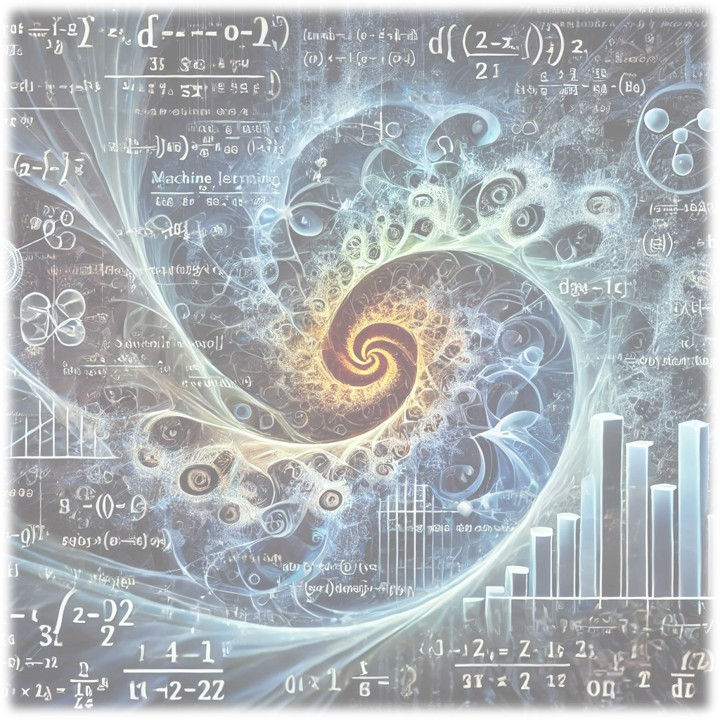
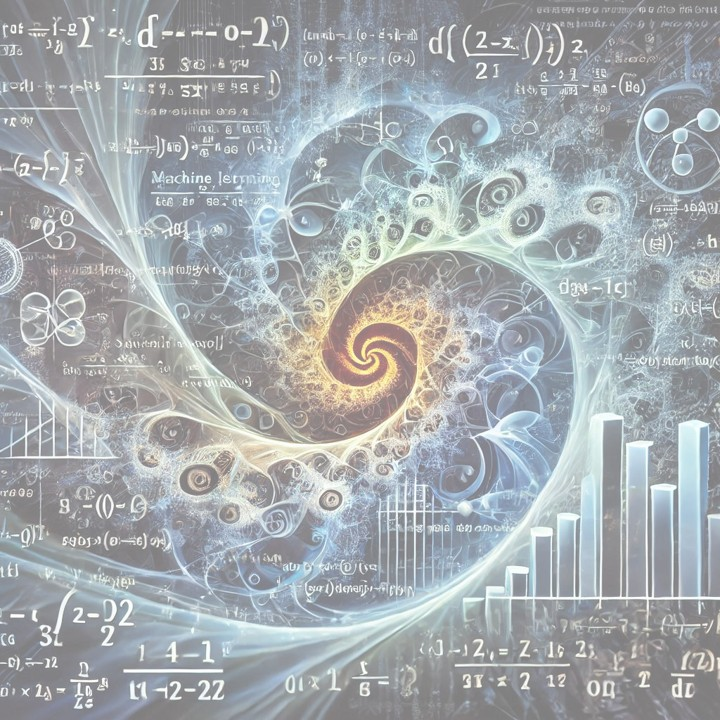
corregidos las salidas de margen

Changed region(s): [[0.0, 0.0, 1.0, 1.0]]

diff --git a/academico.html b/academico.html
@@ -718,7 +718,7 @@
                                         Método Axiomático y Medidas de Pobreza: Una Revisión. </i>. Revista de
                                     Matemática de la Universidad del Atlántico. IV(1), 1-15.
                                     <a href="http://investigaciones.uniatlantico.edu.co/revistas/index.php/MATUA/article/view/1756"
-                                        target="_blank">http://investigaciones.uniatlantico.edu.co/revistas/index.php/MATUA/article/view/1756
+                                        target="_blank">link
                                     </a>
                                 </li>
                                 <li><strong>González De Gouveia R, Monsalve-Cobis A, (2017), </strong>. <i>
@@ -752,7 +752,7 @@
                                     Analysis,
                                     55. Pags 3073–3092. Elsevier Science Bv ISSN: 0167-9473
                                     <a href="https://doi.org/10.1016/j.csda.2011.06.004" target="_blank">
-                                        https://doi.org/10.1016/j.csda.2011.06.004</a>
+                                        DOI</a>
                                 </li>
                                 <li><strong>David Márquez, Juan R. Jiménez and Abelardo Monsalve (2001)</strong>.
                                     <i>
@@ -760,7 +760,7 @@
                                     2001
                                     SEG Annual Meeting, San Antonio, Texas, Paper Number: SEG-2001-0580.
                                     <a href="https://doi.org/10.1190/1.1816684" target="_blank">
-                                        https://doi.org/10.1190/1.1816684</a>
+                                        DOI</a>
                                 </li>
                             </ul>
                         </div>

diff --git a/styles/styles.css b/styles/styles.css
@@ -50,10 +50,10 @@ footer {
 
 body {
     /* background-image: url(../images/Designer4.jpeg); */
-    background-image: url(../img/Designer3marcadeagua.jpg);
+    background-image: url(../img/Fondo_2_marca_agua.png.jpg);
     background-attachment: fixed;
     background-size: cover;
-    background-position: center;
+    /* background-position: center; */
     /* background-repeat: no-repeat; */
     /* background: linear-gradient(135deg, #8e909b, #004e92); */
     color: rgb(116, 146, 67);
